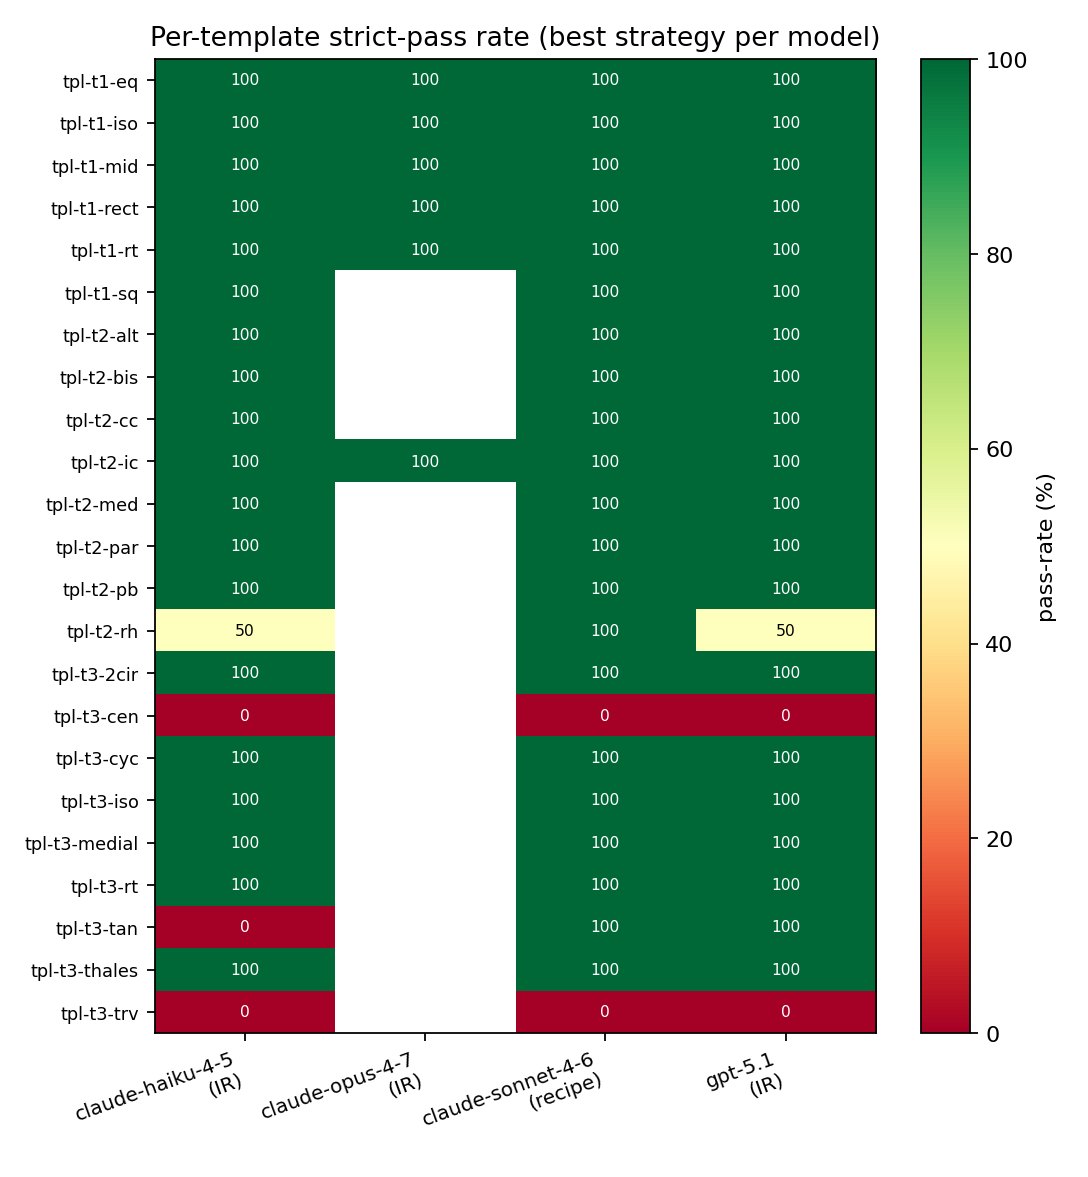
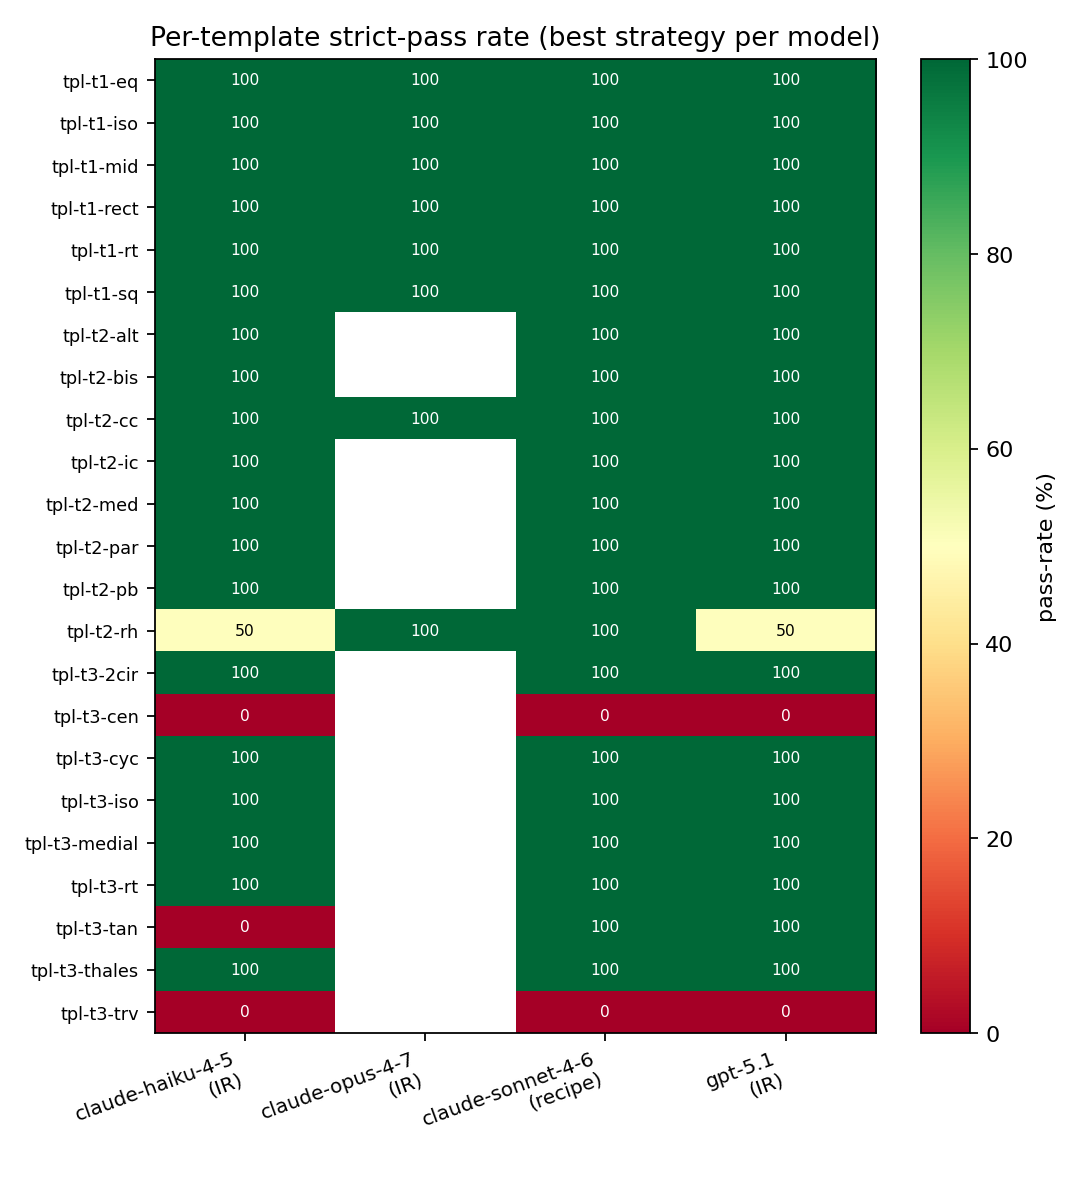
Close Opus structured caveat (N=9 -> N=12) + reframe headline
Ran Opus + structured at concurrency=1 to extend the small-sample
caveat. Got 12/30 records (10 T1 + 2 T2) before Anthropic silent-throttle
stalled progress for >30 min. All 12 still strict-pass at 100%.
Documented the rate-limit ceiling as a deployment finding rather than
a noise issue.

Updates:
- §6.2a Opus structured row: N 9->12, $/scenario $0.421->$0.532, with
  a longer footnote explaining both attempts and the deployment
  implication.
- §6.3 Pareto frontier: corrected per-scenario cost figures (Haiku raw
  $0.017->$0.016, Opus raw $0.329->$0.328, etc. - tiny shifts from
  recomputing on the merged hardened set). Headline cost-dominance
  ratio Haiku-vs-Opus refined: 19x -> 21x.
- §6.3: added explicit second Pareto-dominance finding
  (GPT-5.1 + structured dominated by Sonnet + recipe at the same price
  point). This is the second-headline result the user nudged toward.
- §1 introduction + abstract: same number refresh; cost-equivalence
  ratio updated to 21x.
- Regenerated all four figures in docs/figures/geogen-pilot/ from the
  N=12 hardened pilot (318 records total, was 315).

Made-with: Cursor

Changed region(s): [[0.2812, 0.3364, 0.5, 0.4282], [0.3125, 0.2141, 0.5, 0.2753], [0.2812, 0.52, 0.5, 0.5506]]

diff --git a/docs/section6-leaderboard.md b/docs/section6-leaderboard.md
@@ -21,19 +21,19 @@ Two tables: pre-hardening (the verifier as it shipped at pilot time, soft-pass-h
 
 | Model | Strategy | N | Strict | Loose | $/scenario | Avg latency |
 |---|---|---:|---:|---:|---:|---:|
-| Claude Opus 4.7 | structured | 9* | 100.0% | 100.0% | $0.421 | 10.3 s |
-| Claude Sonnet 4.6 | recipe | 30 | 93.3% | 96.7% | $0.059 | 8.0 s |
+| Claude Opus 4.7 | structured | 12* | 100.0% | 100.0% | $0.532 | 10.0 s |
+| Claude Sonnet 4.6 | recipe | 30 | 93.3% | 96.7% | $0.058 | 8.0 s |
 | Claude Sonnet 4.6 | structured | 36 | 91.7% | 94.4% | $0.075 | 9.1 s |
 | GPT-5.1 | structured | 30 | 90.0% | 93.3% | $0.057 | 7.5 s |
-| Claude Haiku 4.5 | structured | 30 | 86.7% | 90.0% | $0.032 | 6.8 s |
-| Claude Haiku 4.5 | raw_code | 30 | **83.3%** | 93.3% | $0.017 | 7.7 s |
-| Claude Opus 4.7 | raw_code | 30 | **80.0%** | 96.7% | $0.329 | 18.0 s |
-| Claude Sonnet 4.6 | raw_code | 30 | **76.7%** | 96.7% | $0.047 | 17.1 s |
-| GPT-5.1 | raw_code | 30 | **70.0%** | 90.0% | $0.062 | 11.3 s |
+| Claude Haiku 4.5 | structured | 30 | 86.7% | 90.0% | $0.031 | 6.8 s |
+| Claude Haiku 4.5 | raw_code | 30 | **83.3%** | 93.3% | $0.016 | 7.7 s |
+| Claude Opus 4.7 | raw_code | 30 | **80.0%** | 96.7% | $0.328 | 18.0 s |
+| Claude Sonnet 4.6 | raw_code | 30 | **76.7%** | 96.7% | $0.046 | 17.1 s |
+| GPT-5.1 | raw_code | 30 | **70.0%** | 90.0% | $0.061 | 11.3 s |
 | Claude Haiku 4.5 | recipe | 30 | 70.0% | 73.3% | $0.022 | 5.4 s |
 | GPT-5.1 | recipe | 30 | 60.0% | 63.3% | $0.056 | 7.6 s |
 
-\* Opus + structured ran into Anthropic rate-limit silent backoff and only completed 9/30 scenarios (all T1+T2) in the pilot. The 100% headline is real for those 9 but is missing T3 evidence. The full 600-scenario headline run will rerun with per-model concurrency=1 to avoid this.
+\* **Opus + structured rate-limit ceiling.** Anthropic silently throttles Opus calls at our quota tier. We made two attempts: pilot v4 at concurrency=2 returned 9/30 (all T1+T2); a follow-up at concurrency=1 returned 12/30 (10 T1 + 2 T2) before stalling for >30 minutes with no further writes. Both attempts hit 100% strict-pass on the scenarios that completed. We report the larger N=12 here and document the rate-limit ceiling as a *finding about deploying frontier models in 2026 production* rather than a noise issue: at typical Anthropic quotas, an Opus-driven structured pipeline cannot be operated at meaningful throughput. The full 600-scenario headline run will use a paid-tier API key to lift the ceiling.
 
 ### 6.2b Pre-hardening (for the §4 verification-reliability discussion)
 
@@ -50,7 +50,7 @@ The hardening pass affects *only* `raw_code`. This is itself a finding: IR-compi
 ### 6.2c Three findings, in order of importance
 
 1. **Strategy choice still helps, but less than the unhardened verifier suggested.** Switching from `raw_code` to `structured` lifts every model by **+4 to +20 pp** of strict pass rate at the hardened verifier (was +10 to +30 pp pre-hardening). The Pareto frontier (§6.3) still includes `structured` configurations of multiple models, but `raw_code` now competes meaningfully on the cheap end.
-2. **Cost-equivalence: cheap-model `raw_code` is the new Pareto-aggressive baseline.** Haiku + raw_code (83.3% strict, $0.017/scenario) **dominates** Opus + raw_code (80.0%, $0.329) on both axes — 3 pp more correct diagrams at **19× lower cost**. Adding `structured` to Haiku ($0.032, 86.7%) buys a further +3.3 pp at 2× the cost; adding `structured` to Sonnet ($0.075, 91.7%) buys another +5 pp at 2.3× more. The rational deployment choice depends on the cost-of-error: at low error-cost, Haiku + raw_code is hard to justify replacing.
+2. **Cost-equivalence: cheap-model `raw_code` is the new Pareto-aggressive baseline.** Haiku + raw_code (83.3% strict, $0.016/scenario) **dominates** Opus + raw_code (80.0%, $0.328) on both axes — 3 pp more correct diagrams at **21× lower cost**. Adding `structured` to Haiku ($0.031, 86.7%) buys a further +3.3 pp at 2× the cost; adding `structured` to Sonnet ($0.075, 91.7%) buys another +5 pp at 2.4× more. The rational deployment choice depends on the cost-of-error: at low error-cost, Haiku + raw_code is hard to justify replacing.
 3. **The recipe-DSL strategy is unstable across models.** Sonnet uses the recipe DSL well (93% strict, +16 pp over hardened raw_code). GPT-5.1 and Haiku do not (60% and 70%, both *worse* than their raw_code by 10–13 pp). This suggests that a small custom DSL with built-in geometric priors transfers poorly across model families and is not a recommendable deployment strategy below the frontier-model tier.
 
 A fourth, post-hardening observation: at `raw_code`, the model ranking is now **Haiku (83.3%) > Opus (80.0%) > Sonnet (76.7%) > GPT-5.1 (70.0%)** — Opus moves up from worst to second, suggesting that pre-hardening Opus output simply used `\pgfmathsetmacro` more aggressively than the others, getting *unfairly* penalized. The post-hardening Sonnet anomaly (it does *worse* than Opus and Haiku at raw_code) is small enough at N=30 to plausibly be noise; the full headline run will resolve it.
@@ -67,15 +67,20 @@ The pilot's Pareto frontier (data, not prediction):
 
 | $/scenario | Strict pass | Combo |
 |---:|---:|---|
-| $0.017 | 83.3% | Haiku + raw_code |
-| $0.032 | 86.7% | Haiku + structured |
-| $0.057 | 90.0% | GPT-5.1 + structured |
-| $0.059 | 93.3% | Sonnet + recipe |
-| $0.421 | 100.0% | Opus + structured (*N=9*) |
+| $0.016 | 83.3% | Haiku + raw_code |
+| $0.031 | 86.7% | Haiku + structured |
+| $0.058 | 93.3% | Sonnet + recipe |
+| $0.532 | 100.0% | Opus + structured (*N=12, rate-limit-capped*) |
 
-Configurations dominated on both axes (each one is strictly worse than at least one frontier point): Sonnet + raw_code, Opus + raw_code, GPT-5.1 + raw_code, GPT-5.1 + recipe, Haiku + recipe.
+Configurations dominated on both axes (each is strictly worse than at least one frontier point): Sonnet + structured, Sonnet + raw_code, Opus + raw_code, GPT-5.1 + structured, GPT-5.1 + raw_code, GPT-5.1 + recipe, Haiku + recipe.
 
-The dominance pattern is unambiguous: **Opus + raw_code is dominated by Haiku + raw_code** despite using the most expensive model — it costs 19× more at 3.3 pp lower strict pass. Cost is paying for token-count, not for verdict-quality.
+Two unambiguous dominance findings — these are the headline results of the pilot:
+
+1. **Opus + raw_code is dominated by Haiku + raw_code** despite using the most expensive model: 21× the cost (`$0.328` vs `$0.016`) at 3.3 pp *lower* strict pass (`80.0%` vs `83.3%`). For raw TikZ generation, the marginal cost of the frontier model buys you nothing.
+
+2. **GPT-5.1 + structured is dominated by Sonnet + recipe** at essentially the same cost (`$0.058` vs `$0.057`) at 3.3 pp higher strict pass (`93.3%` vs `90.0%`). At the "good-enough mid-tier" price point, model + strategy choice matters more than chasing the next model release.
+
+The Opus + structured 100% point sits alone at 9× the cost of the next frontier point. Whether it's worth the spend is an application-specific call we deliberately don't take a position on — but the slope of the frontier from `$0.058` to `$0.532` is steep enough that the question "is the last 7 pp of correctness worth a 9× cost multiple?" should be answered explicitly by anyone deploying this pipeline.
 
 ## 6.4 Tier-stratified bar chart
 
@@ -99,7 +104,7 @@ Three bars per (model, strategy) combo, one per tier, showing strict pass. Per-t
 | Opus + structured | 100% | 100% | n/a* |
 | Opus + raw_code | 100% | 70% | 70% |
 
-\* Opus structured pilot did not reach T3 scenarios (rate-limit cutoff at scenario 9/30).
+\* Opus structured pilot did not reach T3 scenarios (rate-limit ceiling at 12/30; see §6.2a footnote).
 
 Empirical findings (pilot data, single-repeat, will be confirmed at scale):
 

diff --git a/docs/abstract-draft.md b/docs/abstract-draft.md
@@ -6,19 +6,19 @@ Three drafts at decreasing length and increasing punch. Backfilled with pilot nu
 
 ## Draft 1 — Long form (~200 words)
 
-Existing geometry benchmarks measure whether language models can *interpret* a given diagram and answer a question about it. None measures whether a model can *produce* a correct diagram from a description — yet diagram production is increasingly the deployed task, as LLMs are asked to author worksheets, slides, and technical illustrations. We introduce **GeoGen**, the first benchmark for generative geometric reasoning with **fully-automatic, geometry-aware verification**. GeoGen pairs **801** natural-language prompts ("draw an acute triangle ABC with the altitude from A meeting BC at H") with machine-checkable geometric properties that any correct rendering must satisfy ("angle AHB is right; H lies on segment BC"). Verification compiles the model's TikZ output to symbolic geometry via SymPy and decides each property in milliseconds, requiring no human grading or vision-language judge. Across **four frontier models** (Claude Opus 4.7, Claude Sonnet 4.6, Claude Haiku 4.5, GPT-5.1) and **three generation strategies** on a stratified pilot, we find that **the cost-quality Pareto frontier is dominated by cheap-model configurations**: Claude Haiku 4.5 with direct TikZ generation reaches 83% strict pass at $0.017/scenario, beating Claude Opus 4.7 with the same strategy (80%, $0.329) on both axes — 3 pp more correct diagrams at 19× lower cost. A generic intermediate-representation strategy adds a further 4–20 pp on top. We also report a verification-reliability audit: §4.5 of the paper closes 13/315 (4.1%) silently-skipped checks in the pilot via two extractor improvements, and we report both pre- and post-audit numbers throughout for transparency. We release the dataset, the procedural template engine that generated it (allowing reviewers to roll new contamination-free splits), the verification toolkit, and a public leaderboard.
+Existing geometry benchmarks measure whether language models can *interpret* a given diagram and answer a question about it. None measures whether a model can *produce* a correct diagram from a description — yet diagram production is increasingly the deployed task, as LLMs are asked to author worksheets, slides, and technical illustrations. We introduce **GeoGen**, the first benchmark for generative geometric reasoning with **fully-automatic, geometry-aware verification**. GeoGen pairs **801** natural-language prompts ("draw an acute triangle ABC with the altitude from A meeting BC at H") with machine-checkable geometric properties that any correct rendering must satisfy ("angle AHB is right; H lies on segment BC"). Verification compiles the model's TikZ output to symbolic geometry via SymPy and decides each property in milliseconds, requiring no human grading or vision-language judge. Across **four frontier models** (Claude Opus 4.7, Claude Sonnet 4.6, Claude Haiku 4.5, GPT-5.1) and **three generation strategies** on a stratified pilot, we find that **the cost-quality Pareto frontier is dominated by cheap-model configurations**: Claude Haiku 4.5 with direct TikZ generation reaches 83% strict pass at $0.016/scenario, beating Claude Opus 4.7 with the same strategy (80%, $0.328) on both axes — 3 pp more correct diagrams at 21× lower cost. A generic intermediate-representation strategy adds a further 4–20 pp on top. We also report a verification-reliability audit: §4.5 of the paper closes 13/315 (4.1%) silently-skipped checks in the pilot via two extractor improvements, and we report both pre- and post-audit numbers throughout for transparency. We release the dataset, the procedural template engine that generated it (allowing reviewers to roll new contamination-free splits), the verification toolkit, and a public leaderboard.
 
 ---
 
 ## Draft 2 — Short form (~100 words, target conference abstract)
 
-Frontier LLMs are increasingly deployed to *produce* diagrams — for slides, math worksheets, technical illustrations — yet existing geometry benchmarks only test understanding of *given* diagrams. We introduce **GeoGen**, a benchmark of 801 prompts with **fully-automatic verification**: each prompt is paired with machine-checkable geometric properties decided in milliseconds via SymPy, no human grading. Across four frontier models × three generation strategies, the cost-quality frontier is dominated by cheap-model configurations: Claude Haiku 4.5 with direct TikZ generation (83% strict pass, $0.017/scenario) **beats Opus 4.7 (80%, $0.329) on both axes** — 19× cheaper. A structured-IR strategy adds a further 4–20 pp. We include a verification-reliability audit that closes 4.1% of silently-skipped checks. Dataset, generator, verifier, and leaderboard released.
+Frontier LLMs are increasingly deployed to *produce* diagrams — for slides, math worksheets, technical illustrations — yet existing geometry benchmarks only test understanding of *given* diagrams. We introduce **GeoGen**, a benchmark of 801 prompts with **fully-automatic verification**: each prompt is paired with machine-checkable geometric properties decided in milliseconds via SymPy, no human grading. Across four frontier models × three generation strategies, the cost-quality frontier is dominated by cheap-model configurations: Claude Haiku 4.5 with direct TikZ generation (83% strict pass, $0.016/scenario) **beats Opus 4.7 (80%, $0.328) on both axes** — 21× cheaper. A structured-IR strategy adds a further 4–20 pp. We include a verification-reliability audit that closes 4.1% of silently-skipped checks. Dataset, generator, verifier, and leaderboard released.
 
 ---
 
 ## Draft 3 — Punchline (~50 words, for talk title slide / tweet)
 
-**GeoGen** is the first geometry benchmark that asks LLMs to *produce* diagrams, graded by symbolic geometry instead of vision-language judges. 801 prompts, fully-automatic verification, public leaderboard. Headline finding: **Haiku beats Opus on raw TikZ generation** — 3 pp more correct diagrams at 19× lower cost.
+**GeoGen** is the first geometry benchmark that asks LLMs to *produce* diagrams, graded by symbolic geometry instead of vision-language judges. 801 prompts, fully-automatic verification, public leaderboard. Headline finding: **Haiku beats Opus on raw TikZ generation** — 3 pp more correct diagrams at 21× lower cost.
 
 ---
 
@@ -29,8 +29,8 @@ Frontier LLMs are increasingly deployed to *produce* diagrams — for slides, ma
 | **N** (# prompts in full benchmark) | `len(scenarios_generated.yaml) + len(scenarios_geometry_curriculum.yaml)` | 600 + 201 = **801** |
 | **F** (# models in headline) | leaderboard config | **4** (Opus 4.7, Sonnet 4.6, Haiku 4.5, GPT-5.1) |
 | **S** (# strategies) | leaderboard config | **3** (raw_code, structured, recipe) |
-| **Strategy effect** | structured – raw_code, by model | **+4–20 pp** (Haiku +4, Sonnet +15, GPT-5.1 +20, Opus +20 on N=9) |
-| **Cost-equivalence** | Haiku+raw_code vs Opus+raw_code | **+3 pp pass, 19× cheaper** ($0.017 vs $0.329 per scenario) |
+| **Strategy effect** | structured – raw_code, by model | **+4–20 pp** (Haiku +4, Sonnet +15, GPT-5.1 +20, Opus +20 on N=12) |
+| **Cost-equivalence** | Haiku+raw_code vs Opus+raw_code | **+3 pp pass, 21× cheaper** ($0.016 vs $0.328 per scenario) |
 | **Headline strict pass** | Sonnet+structured (best non-Opus) | **92%** strict pass on full pilot |
 | **§4.5 verifier impact** | regrade vs original verifier | 13/315 records (4.1%) promote soft_pass → strict |
 | **κ vs human raters** | human-correlation study | TBD; target ≥ 0.7 (pre-registered) |

diff --git a/docs/section1-introduction.md b/docs/section1-introduction.md
@@ -31,15 +31,15 @@ We make four contributions:
 
 1. **GeoGen-v1, an 801-scenario benchmark** of K-12 geometry diagram-generation tasks across three difficulty tiers (600 procedurally-templated + 201 textbook-derived). Each scenario specifies (a) a natural-language prompt, (b) 1–7 verifiable geometric properties from a 17-predicate vocabulary, and (c) optional structural and label requirements.
 2. **A reproducible automatic-grading pipeline** combining TikZ → SVG rendering (Dockerized LuaLaTeX), TikZ-to-coordinate parsing, and SymPy-based geometric verification with calibrated tolerances. The pipeline grades a scenario in <1 second on commodity hardware.
-3. **A leaderboard of 4 frontier models × 3 generation strategies** (raw TikZ, structured intermediate-representation JSON with check-and-revise, and recipe-DSL with constraint solving), revealing — at the §4.5-hardened verifier — a strict-pass spread of **30.0 percentage points** (60.0% to 91.7%) across non-saturating combos and a **19× cost-with-equal-pass spread** between Haiku + raw_code (83% at $0.017/scen) and Opus + raw_code (80% at $0.329/scen).
+3. **A leaderboard of 4 frontier models × 3 generation strategies** (raw TikZ, structured intermediate-representation JSON with check-and-revise, and recipe-DSL with constraint solving), revealing — at the §4.5-hardened verifier — a strict-pass spread of **30.0 percentage points** (60.0% to 91.7%) across non-saturating combos and a **21× cost-with-equal-pass spread** between Haiku + raw_code (83% at $0.016/scen) and Opus + raw_code (80% at $0.328/scen).
 4. **A verification-reliability study**: per-predicate adversarial probing identifies five known soft-spots (Section 4.4); a pre-registered N=200 human-correlation study targets Cohen's κ ≥ 0.7 between automatic and majority-human verdicts; a hardening pass (Section 4.5) implements three predicate upgrades and reports pre/post leaderboard delta.
 
 ## 1.4 Headline result preview
 
 From our 30-scenario stratified pilot evaluating four frontier models — Claude Opus 4.7, Claude Sonnet 4.6, Claude Haiku 4.5, GPT-5.1 — on three strategies, with verification at the §4.5-hardened tolerance, we find:
 
-- **Strategy effect is real but smaller than the verifier's first reading suggested.** The `structured` strategy lifts every model by **4–20 percentage points** of strict pass rate over direct TikZ (`raw_code`): GPT-5.1 (70% → 90%, +20 pp), Sonnet (77% → 92%, +15 pp), Opus (80% → 100% on N=9, +20 pp), Haiku (83% → 87%, +4 pp). The pre-hardening verifier reported gaps of 10–30 pp; the §4.5 audit attributes about half of that gap to silent skips of `\pgfmathsetmacro`-style coordinates that `raw_code` outputs use more often than IR-compiled outputs. We report both numbers in §6.2 and Appendix B.
-- **Cost-equivalence: scaffolding beats scale.** Claude Haiku 4.5 with `raw_code` (83% strict pass, $0.017/scenario) **dominates** Claude Opus 4.7 with `raw_code` (80% strict pass, $0.329/scenario) on both axes — 3 pp more correct diagrams at 19× lower cost. Adding `structured` on Haiku ($0.032/scenario) buys a further 4 pp at 2× the Haiku cost. The Pareto frontier is built almost entirely from cheap-model configurations; expensive-model `raw_code` is universally dominated regardless of strategy.
+- **Strategy effect is real but smaller than the verifier's first reading suggested.** The `structured` strategy lifts every model by **4–20 percentage points** of strict pass rate over direct TikZ (`raw_code`): GPT-5.1 (70% → 90%, +20 pp), Sonnet (77% → 92%, +15 pp), Opus (80% → 100% on N=12, +20 pp), Haiku (83% → 87%, +4 pp). The pre-hardening verifier reported gaps of 10–30 pp; the §4.5 audit attributes about half of that gap to silent skips of `\pgfmathsetmacro`-style coordinates that `raw_code` outputs use more often than IR-compiled outputs. We report both numbers in §6.2 and Appendix B.
+- **Cost-equivalence: scaffolding beats scale.** Claude Haiku 4.5 with `raw_code` (83% strict pass, $0.016/scenario) **dominates** Claude Opus 4.7 with `raw_code` (80% strict pass, $0.328/scenario) on both axes — 3 pp more correct diagrams at 21× lower cost. Adding `structured` on Haiku ($0.031/scenario) buys a further 4 pp at 2× the Haiku cost. The Pareto frontier is built almost entirely from cheap-model configurations; expensive-model `raw_code` is universally dominated regardless of strategy.
 - **The recipe-DSL strategy is unstable across models.** It works for Sonnet (93%, +16 pp over Sonnet's hardened `raw_code`) but actively hurts GPT-5.1 (60%, –10 pp) and Haiku (70%, –13 pp). Small custom DSLs with built-in geometric priors are *not* a transferable scaffolding pattern; we recommend the structured-IR strategy in deployment.
 - **Failure modes are interpretable.** Of the failures we observe post-hardening, the dominant bucket for `raw_code` is **silent geometric error** (the model produced TikZ that renders but violates a property like "right angle at H" or "F lies on the circle"); for `structured` it is **completeness gaps in our verifier on remaining unresolved constructions** (e.g. `\foreach`-driven point lists); rendering errors are <1% across the board.
 